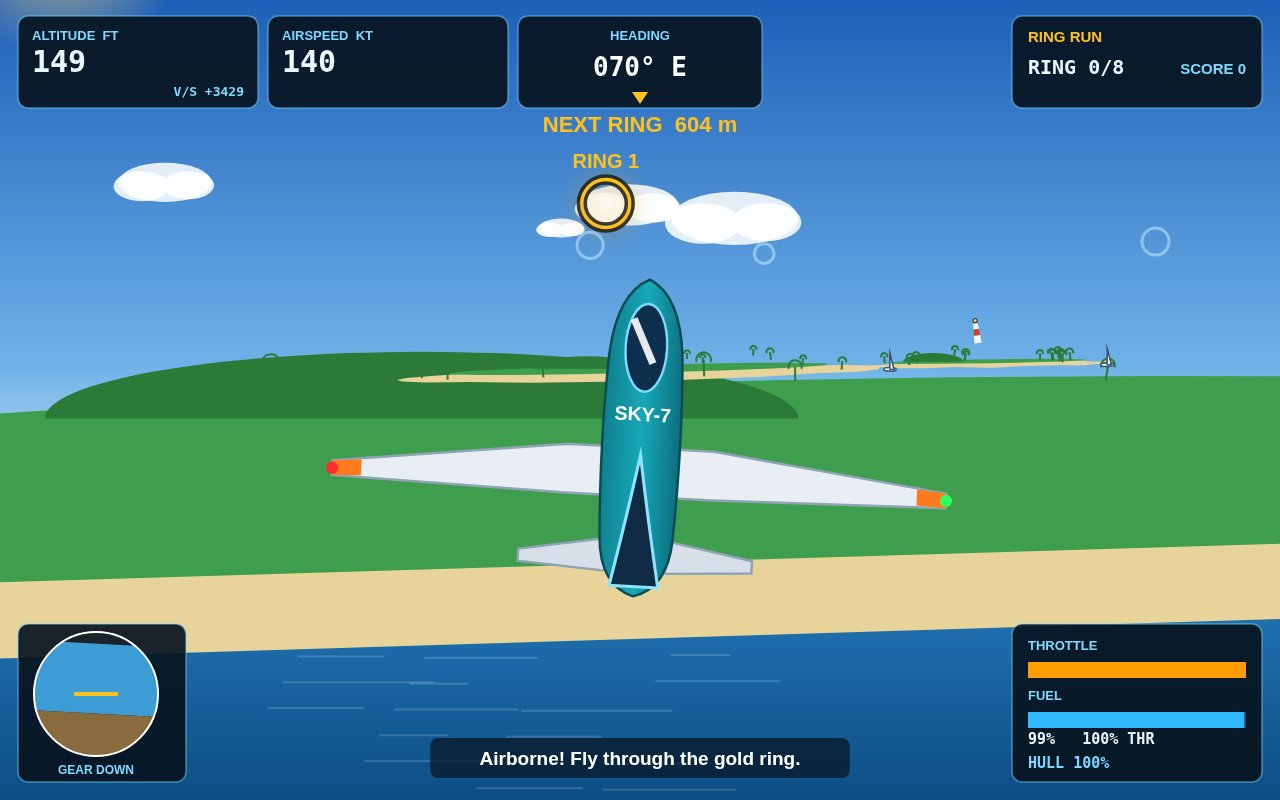
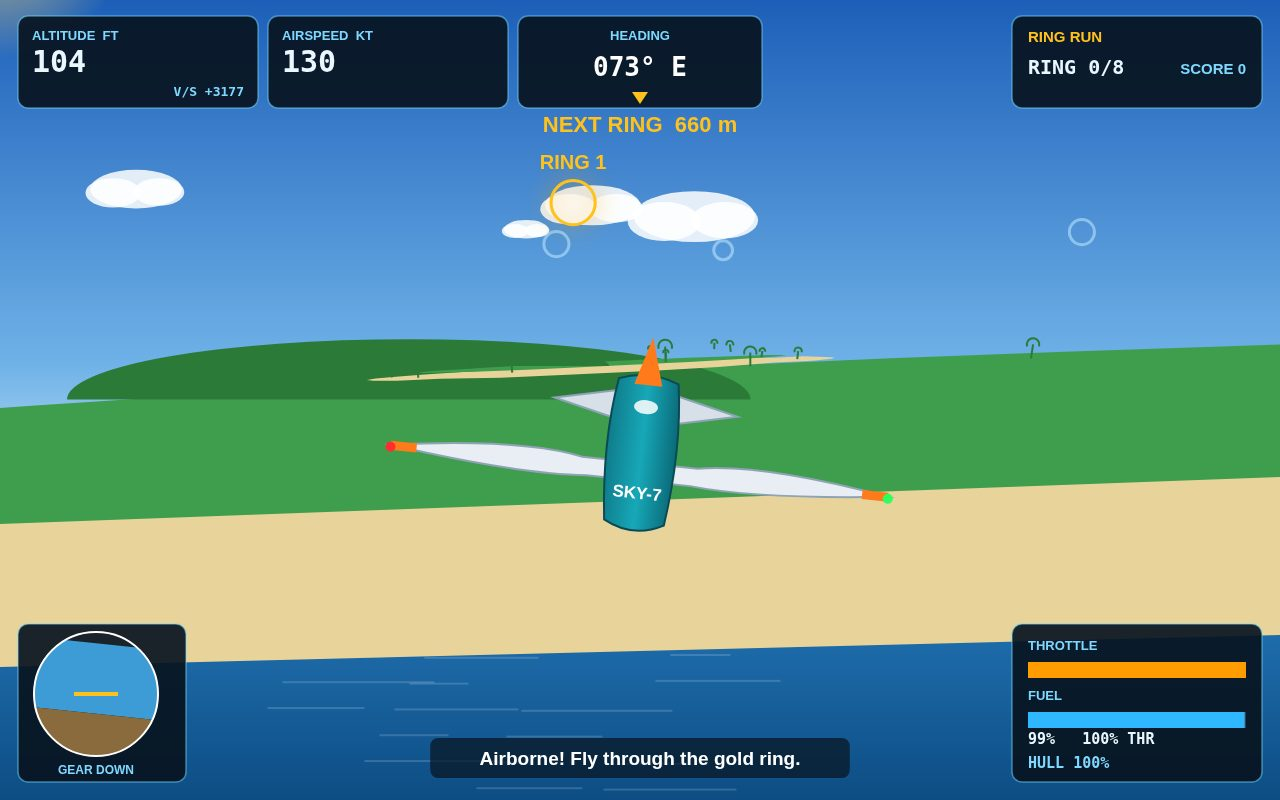
Final: revert to R1 version (skylark-run-01 @ bbf9697) — plane, world and screenshots as submitted in round 1

diff --git a/game/src/render.js b/game/src/render.js
@@ -2,7 +2,7 @@
 // Everything is drawn on one canvas: sky, sea, islands, runway, rings, the Skylark herself,
 // then the HUD — altitude, speed, heading, throttle, fuel and the next ring — big enough to
 // read when the screenshot is shrunk to a contact sheet.
-import { BOATS, FLIGHT, LIGHTHOUSE, MISSIONS, SCREENS, VIEW_H, VIEW_W, WORLD } from './config.js';
+import { FLIGHT, MISSIONS, SCREENS, VIEW_H, VIEW_W, WORLD } from './config.js';
 import { terrainHeightAt } from './world.js';
 
 const FOCAL = (VIEW_H / 2) / Math.tan((28 * Math.PI) / 180);
@@ -243,15 +243,6 @@ export function createRenderer(canvas) {
         ctx.strokeStyle = '#37d67a';
         ctx.globalAlpha = 0.85;
       } else if (next) {
-        // Dark under-stroke first: the gold ring must stay readable even
-        // when a white cloud sits right behind it.
-        ctx.strokeStyle = 'rgba(8, 20, 32, 0.9)';
-        ctx.lineWidth = Math.max(3, radius * 0.14) + 7;
-        ctx.globalAlpha = 1;
-        ctx.beginPath();
-        ctx.arc(centre.x, centre.y, radius, 0, Math.PI * 2);
-        ctx.stroke();
-        ctx.lineWidth = Math.max(3, radius * 0.14);
         ctx.strokeStyle = '#ffc21c';
         ctx.shadowColor = '#ff9d00';
         ctx.shadowBlur = 22;
@@ -291,211 +282,85 @@ export function createRenderer(canvas) {
     }
   }
 
-  /** The Beacon Rock lighthouse: a red-and-white striped tower with a lamp
-   *  room, drawn as a vertical billboard between its projected base and top. */
-  function drawLighthouse(basis) {
-    const groundY = terrainHeightAt(LIGHTHOUSE.x, LIGHTHOUSE.z);
-    const base = project({ x: LIGHTHOUSE.x, y: groundY, z: LIGHTHOUSE.z }, basis);
-    const top = project({ x: LIGHTHOUSE.x, y: groundY + LIGHTHOUSE.height, z: LIGHTHOUSE.z }, basis);
-    if (!base || !top) return;
-    const halfW = Math.max(2.5, 8 * base.scale);
-    const dx = top.x - base.x;
-    const dy = top.y - base.y;
-    const bands = [
-      { from: 0, to: 0.34, color: '#f4f8fb' },
-      { from: 0.34, to: 0.62, color: '#d83a2e' },
-      { from: 0.62, to: 0.88, color: '#f4f8fb' },
-      { from: 0.88, to: 1, color: '#d83a2e' },
-    ];
-    for (const band of bands) {
-      const x0 = base.x + dx * band.from;
-      const y0 = base.y + dy * band.from;
-      const x1 = base.x + dx * band.to;
-      const y1 = base.y + dy * band.to;
-      const w0 = halfW * (1 - 0.45 * band.from);
-      const w1 = halfW * (1 - 0.45 * band.to);
-      const px = -(y1 - y0);
-      const py = x1 - x0;
-      const len = Math.hypot(px, py) || 1;
-      const nx = px / len;
-      const ny = py / len;
-      ctx.fillStyle = band.color;
-      ctx.beginPath();
-      ctx.moveTo(x0 + nx * w0, y0 + ny * w0);
-      ctx.lineTo(x1 + nx * w1, y1 + ny * w1);
-      ctx.lineTo(x1 - nx * w1, y1 - ny * w1);
-      ctx.lineTo(x0 - nx * w0, y0 - ny * w0);
-      ctx.closePath();
-      ctx.fill();
-    }
-    ctx.fillStyle = '#22303e';
-    ctx.beginPath();
-    ctx.arc(top.x, top.y, Math.max(2.5, halfW * 0.55), 0, Math.PI * 2);
-    ctx.fill();
-    ctx.fillStyle = '#ffd76a';
-    ctx.beginPath();
-    ctx.arc(top.x, top.y, Math.max(1.5, halfW * 0.28), 0, Math.PI * 2);
-    ctx.fill();
-  }
-
-  /** Sailboats at anchor: a white hull along the boat's heading, with a
-   *  triangular sail rising from it. */
-  function drawBoats(basis) {
-    for (const boat of BOATS) {
-      const p = project({ x: boat.x, y: 1, z: boat.z }, basis);
-      if (!p) continue;
-      const s = p.scale;
-      if (s < 0.08) continue;
-      const rad = (boat.heading * Math.PI) / 180;
-      const ahead = project(
-        { x: boat.x + Math.sin(rad) * 20, y: 1, z: boat.z - Math.cos(rad) * 20 },
-        basis,
-      );
-      const angle = ahead ? Math.atan2(ahead.y - p.y, ahead.x - p.x) : 0;
-      const hullLen = Math.max(7, 24 * s);
-      const hullWid = Math.max(3, 7 * s);
-      ctx.save();
-      ctx.translate(p.x, p.y);
-      ctx.rotate(angle);
-      ctx.fillStyle = '#f4f8fb';
-      ctx.strokeStyle = '#33506b';
-      ctx.lineWidth = 1.5;
-      ctx.beginPath();
-      ctx.ellipse(0, 0, hullLen / 2, hullWid / 2, 0, 0, Math.PI * 2);
-      ctx.fill();
-      ctx.stroke();
-      ctx.rotate(-angle);
-      const mastH = Math.max(8, 30 * s);
-      ctx.fillStyle = '#ffffff';
-      ctx.beginPath();
-      ctx.moveTo(0, 0);
-      ctx.lineTo(0, -mastH);
-      ctx.lineTo(hullLen * 0.32, 0);
-      ctx.closePath();
-      ctx.fill();
-      ctx.stroke();
-      ctx.restore();
-    }
-  }
-
-  /** The Skylark, big in the frame, banking with the stick. Rear view from
-   *  above: nose up-screen, tail down-screen. The silhouette has to read as a
-   *  plane in one glance — long slim fuselage, dark glass canopy on the nose,
-   *  a tall swept tail fin at the rear, tapered wings, small tailplane. */
+  /** The Skylark, big in the frame, banking with the stick. */
   function drawPlane(state) {
     const cx = VIEW_W / 2;
     const cy = VIEW_H * 0.56 + state.pitch * 1.2;
     ctx.save();
     ctx.translate(cx, cy);
     ctx.rotate((-state.roll * Math.PI) / 180);
-    ctx.scale(1.22, 1.22);
-    // Main wings — tapered and swept slightly back: wide chord at the root,
-    // narrow at the tips, so the planform reads as wings, not a plank.
+    // Wings.
     ctx.fillStyle = '#e8eef4';
     ctx.strokeStyle = '#8fa3b5';
     ctx.lineWidth = 2;
     ctx.beginPath();
-    ctx.moveTo(-252, 10);
-    ctx.lineTo(-60, -14);
-    ctx.lineTo(60, -14);
-    ctx.lineTo(252, 10);
-    ctx.lineTo(252, 22);
-    ctx.lineTo(60, 26);
-    ctx.lineTo(-60, 26);
-    ctx.lineTo(-252, 22);
+    ctx.moveTo(-250, 6);
+    ctx.quadraticCurveTo(-120, -14, -58, -2);
+    ctx.lineTo(58, -2);
+    ctx.quadraticCurveTo(120, -14, 250, 6);
+    ctx.quadraticCurveTo(120, 22, 52, 16);
+    ctx.lineTo(-52, 16);
+    ctx.quadraticCurveTo(-120, 22, -250, 6);
     ctx.closePath();
     ctx.fill();
     ctx.stroke();
     // Orange wingtip stripes.
     ctx.fillStyle = '#ff7a1a';
-    ctx.beginPath();
-    ctx.moveTo(-252, 10);
-    ctx.lineTo(-228, 8);
-    ctx.lineTo(-228, 21);
-    ctx.lineTo(-252, 22);
-    ctx.closePath();
-    ctx.fill();
-    ctx.beginPath();
-    ctx.moveTo(252, 10);
-    ctx.lineTo(228, 8);
-    ctx.lineTo(228, 21);
-    ctx.lineTo(252, 22);
-    ctx.closePath();
-    ctx.fill();
-    // Tailplane — small, clearly at the tail end, behind the main wings.
+    ctx.fillRect(-250, 2, 26, 9);
+    ctx.fillRect(224, 2, 26, 9);
+    // Tailplane.
     ctx.fillStyle = '#d7e0e8';
     ctx.beginPath();
-    ctx.moveTo(-96, 74);
-    ctx.lineTo(-28, 62);
-    ctx.lineTo(28, 62);
-    ctx.lineTo(96, 74);
-    ctx.lineTo(96, 84);
-    ctx.lineTo(28, 88);
-    ctx.lineTo(-28, 88);
-    ctx.lineTo(-96, 84);
+    ctx.moveTo(-92, -58);
+    ctx.lineTo(-30, -72);
+    ctx.lineTo(30, -72);
+    ctx.lineTo(92, -58);
+    ctx.lineTo(30, -44);
+    ctx.lineTo(-30, -44);
     ctx.closePath();
     ctx.fill();
     ctx.stroke();
-    // Fuselage — long and slim now (was a short fat capsule): pointed nose,
-    // widest at the wing root, tapering to a rounded tail.
+    // Fuselage, seen from behind and above.
     const fus = ctx.createLinearGradient(-34, 0, 34, 0);
     fus.addColorStop(0, '#0f7d8c');
     fus.addColorStop(0.5, '#17a8b8');
     fus.addColorStop(1, '#0b6b7a');
     ctx.fillStyle = fus;
     ctx.beginPath();
-    ctx.moveTo(0, -152);
-    ctx.quadraticCurveTo(-26, -140, -30, -90);
-    ctx.quadraticCurveTo(-34, -20, -30, 60);
-    ctx.quadraticCurveTo(-28, 100, 0, 108);
-    ctx.quadraticCurveTo(28, 100, 30, 60);
-    ctx.quadraticCurveTo(34, -20, 30, -90);
-    ctx.quadraticCurveTo(26, -140, 0, -152);
+    ctx.moveTo(-30, -84);
+    ctx.quadraticCurveTo(-40, -20, -30, 58);
+    ctx.quadraticCurveTo(0, 74, 30, 58);
+    ctx.quadraticCurveTo(40, -20, 30, -84);
+    ctx.quadraticCurveTo(0, -96, -30, -84);
     ctx.closePath();
     ctx.fill();
     ctx.strokeStyle = '#0a4a55';
     ctx.stroke();
-    // Vertical tail fin — tall, swept, DARK against the teal body with a
-    // sharp light edge, so it reads as a fin standing on the tail, not a
-    // stripe painted on the fuselage. Base at the tail, tip rising past
-    // the wing line toward the nose.
-    ctx.fillStyle = '#0e2a44';
-    ctx.strokeStyle = '#8fe3ff';
-    ctx.lineWidth = 2.5;
+    // Tail fin.
+    ctx.fillStyle = '#ff7a1a';
     ctx.beginPath();
-    ctx.moveTo(-20, 100);
-    ctx.quadraticCurveTo(-8, 40, 0, -8);
-    ctx.quadraticCurveTo(8, 40, 20, 100);
+    ctx.moveTo(-14, -80);
+    ctx.lineTo(0, -128);
+    ctx.lineTo(14, -80);
     ctx.closePath();
     ctx.fill();
-    ctx.stroke();
-    // Canopy — big dark glass teardrop on the nose half, with a white glint.
-    ctx.fillStyle = '#0d2f4d';
-    ctx.strokeStyle = '#7fd8ff';
-    ctx.lineWidth = 2;
+    // Cockpit glint and registration.
+    ctx.fillStyle = 'rgba(255,255,255,0.85)';
     ctx.beginPath();
-    ctx.ellipse(0, -96, 17, 36, 0, 0, Math.PI * 2);
+    ctx.ellipse(0, -58, 12, 7, 0, 0, Math.PI * 2);
     ctx.fill();
-    ctx.stroke();
-    ctx.save();
-    ctx.translate(0, -96);
-    ctx.rotate(-0.45);
-    ctx.fillStyle = 'rgba(255,255,255,0.9)';
-    ctx.fillRect(-3, -26, 6, 40);
-    ctx.restore();
-    // Registration, moved to the nose so the fin owns the tail.
     ctx.fillStyle = '#ffffff';
-    ctx.font = 'bold 16px sans-serif';
+    ctx.font = 'bold 17px sans-serif';
     ctx.textAlign = 'center';
-    ctx.fillText('SKY-7', 0, -36);
+    ctx.fillText('SKY-7', 0, 34);
     // Nav lights.
     ctx.fillStyle = '#ff2d2d';
     ctx.beginPath();
-    ctx.arc(-252, 16, 5, 0, Math.PI * 2);
+    ctx.arc(-250, 8, 5, 0, Math.PI * 2);
     ctx.fill();
     ctx.fillStyle = '#2dff5e';
     ctx.beginPath();
-    ctx.arc(252, 16, 5, 0, Math.PI * 2);
+    ctx.arc(250, 8, 5, 0, Math.PI * 2);
     ctx.fill();
     ctx.restore();
   }
@@ -758,8 +623,6 @@ export function createRenderer(canvas) {
     drawRunway(WORLD.homeRunway, basis, '09');
     drawRunway(WORLD.islandStrip, basis, '02');
     drawPalms(state, basis);
-    drawLighthouse(basis);
-    drawBoats(basis);
     drawRings(state, basis, mission);
     if (screen !== SCREENS.TITLE) drawPlane(state);
     if (screen === SCREENS.PLAY || screen === SCREENS.PAUSED) drawHud(state, mission, ui);

diff --git a/game/src/config.js b/game/src/config.js
@@ -34,19 +34,8 @@ export const WORLD = {
     { x: 1500, z: -620, radius: 520, peak: 70, name: 'Gull Rock' },
     { x: -1180, z: 760, radius: 430, peak: 55, name: 'Palm Cay' },
     { x: -350, z: -1350, radius: 300, peak: 45, name: 'Turtle Shoal' },
-    { x: 1700, z: 100, radius: 250, peak: 45, name: 'Beacon Rock' },
   ],
 };
-
-// Scenery landmarks, pure decoration — no collision, no flight-model effect.
-// A striped lighthouse on Beacon Rock, dead ahead on the cover shot's line of
-// flight, and boats at anchor in the lagoon.
-export const LIGHTHOUSE = { x: 1700, z: 100, height: 50 };
-export const BOATS = [
-  { x: 1400, z: -80, heading: 40 },
-  { x: 1500, z: 300, heading: 140 },
-  { x: 800, z: 520, heading: 95 },
-];
 
 // Missions: same loop (take off, fly the rings, land) with a different goal each time.
 export const MISSIONS = [

diff --git a/game/src/shots.js b/game/src/shots.js
@@ -83,7 +83,7 @@ function flyFor(world, seconds, stopWhen) {
 export function stageShot(name, world) {
   world.reset(0);
   if (name === 'takeoff') {
-    flyFor(world, 4.6);
+    flyFor(world, 3.8);
     return { screen: SCREENS.PLAY, best: 0 };
   }
   if (name === 'turn') {
@@ -103,7 +103,7 @@ export function stageShot(name, world) {
   flyFor(world, 8, (state) => {
     const ring = world.nextRing();
     if (!ring) return true;
-    return Math.hypot(state.x - ring.x, state.y - ring.y, state.z - ring.z) < 150;
+    return Math.hypot(state.x - ring.x, state.y - ring.y, state.z - ring.z) < 230;
   });
   return { screen: SCREENS.PLAY, best: world.state.score };
 }
